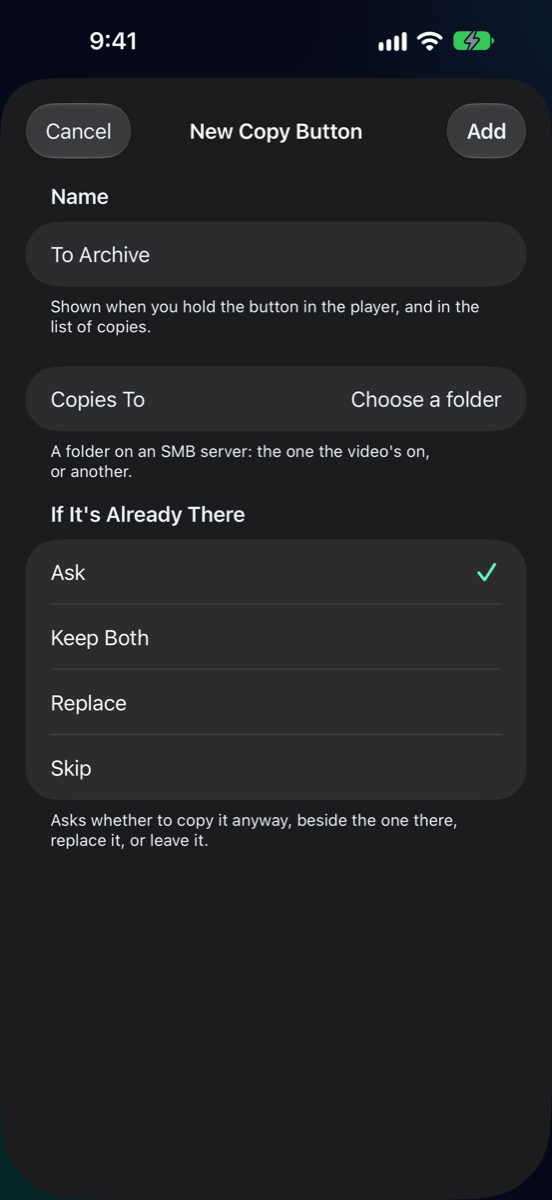
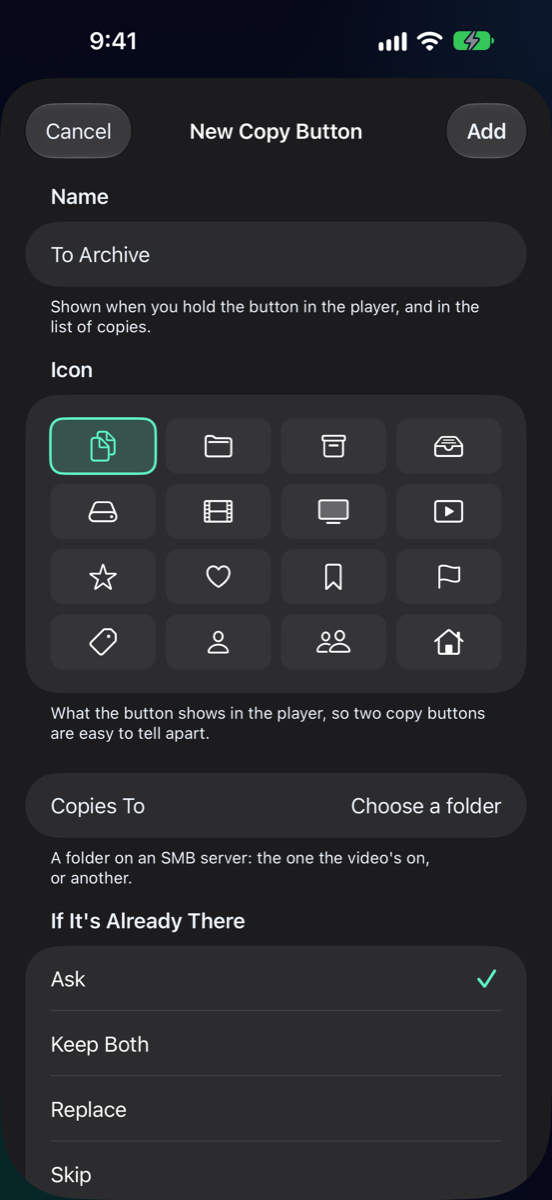
Publish the guide (from 1405baa5)

diff --git a/Video-Player.md b/Video-Player.md
@@ -134,7 +134,7 @@ The Media Controls page is also the way to add buttons that aren't there to star
 A copy button copies the video you're watching to a folder you picked when you made the button, on the same SMB server or another one. Make as many as you like, such as one for an archive and one for the kids' shows.
 
 1. Go to Settings → **Copy Buttons** and tap **New Copy Button**. You can also tap a slot in Media Controls and choose **New Copy Button…** there.
-2. Give it a name, then tap **Copies To** and pick a server and a folder.
+2. Give it a name and pick an **Icon** for it, so two copy buttons are easy to tell apart in the player. Then tap **Copies To** and pick a server and a folder.
 3. Under **If It's Already There**, choose what happens when that folder already has a file with the same name:
    - **Ask** asks each time. **Copy Anyway** saves a second copy with a number added to its name.
    - **Keep Both** saves a second copy without asking.
@@ -143,7 +143,7 @@ A copy button copies the video you're watching to a folder you picked when you m
 4. In Media Controls, tap a slot and pick the button under **Copy Buttons**.
 
 <div class="shot" markdown="0">
-<div class="shot-variant shot-iphone-18-pro-max"><img src="images/iphone-18-pro-max/copy-button-new.png" alt="Settings → Copy Buttons → New Copy Button on an iPhone 18 Pro Max: the name To Archive, Copies To with Choose a folder, and If It's Already There with Ask, Keep Both, Replace and Skip, on an iPhone 18 Pro Max" loading="lazy"><div class="shot-label">iPhone 18 Pro Max</div></div>
+<div class="shot-variant shot-iphone-18-pro-max"><img src="images/iphone-18-pro-max/copy-button-new.png" alt="Settings → Copy Buttons → New Copy Button on an iPhone 18 Pro Max: the name To Archive, a grid of 16 icons with the copy icon chosen, Copies To with Choose a folder, and If It's Already There with Ask, Keep Both, Replace and Skip, on an iPhone 18 Pro Max" loading="lazy"><div class="shot-label">iPhone 18 Pro Max</div></div>
 </div>
 
 While a video plays, tap the button to start copying. Press and hold it to see its name and where it copies to. Copy buttons work on videos from SMB servers. On other videos the button is dimmed, and tapping it tells you why.

diff --git a/whats-new.md b/whats-new.md
@@ -12,6 +12,23 @@ The highlights of each MK Plus update since public TestFlight testing began (ver
 
 ## November 2026
 
+### Copy buttons get icons of their own
+
+_Version 1.427.0 · 27 November 2026_
+
+- Each copy button can have an icon: pick one of 16 when you make or change it.
+- Two copy buttons in the player are now easy to tell apart.
+
+<details markdown="1">
+<summary>Everything in 1.427.0</summary>
+
+**New**
+
+- Each copy button can have an icon of its own: a folder, a star, a film and more. Pick it in Settings → Copy Buttons → a button, under Icon. It shows in the player and in Media Controls.
+- Copy buttons you already have keep the copy icon until you pick another.
+
+</details>
+
 ### Copies keep going out of the app
 
 _Version 1.426.0 · 27 November 2026_
@@ -36,7 +53,7 @@ _Version 1.425.0 · 27 November 2026_
 - Each button can ask, keep both, replace or skip when the file is already there.
 - Copies keep going after you close the video. A pill at the top shows the one that's running, and the list is on Downloads.
 
-<img src="images/iphone-18-pro-max/copy-button-new.png" width="300" alt="Settings → Copy Buttons → New Copy Button on an iPhone 18 Pro Max: the name To Archive, Copies To with Choose a folder, and If It's Already There with Ask, Keep Both, Replace and Skip">
+<img src="images/iphone-18-pro-max/copy-button-new.png" width="300" alt="Settings → Copy Buttons → New Copy Button on an iPhone 18 Pro Max: the name To Archive, a grid of 16 icons with the copy icon chosen, Copies To with Choose a folder, and If It's Already There with Ask, Keep Both, Replace and Skip">
 
 <details markdown="1">
 <summary>Everything in 1.425.0</summary>
